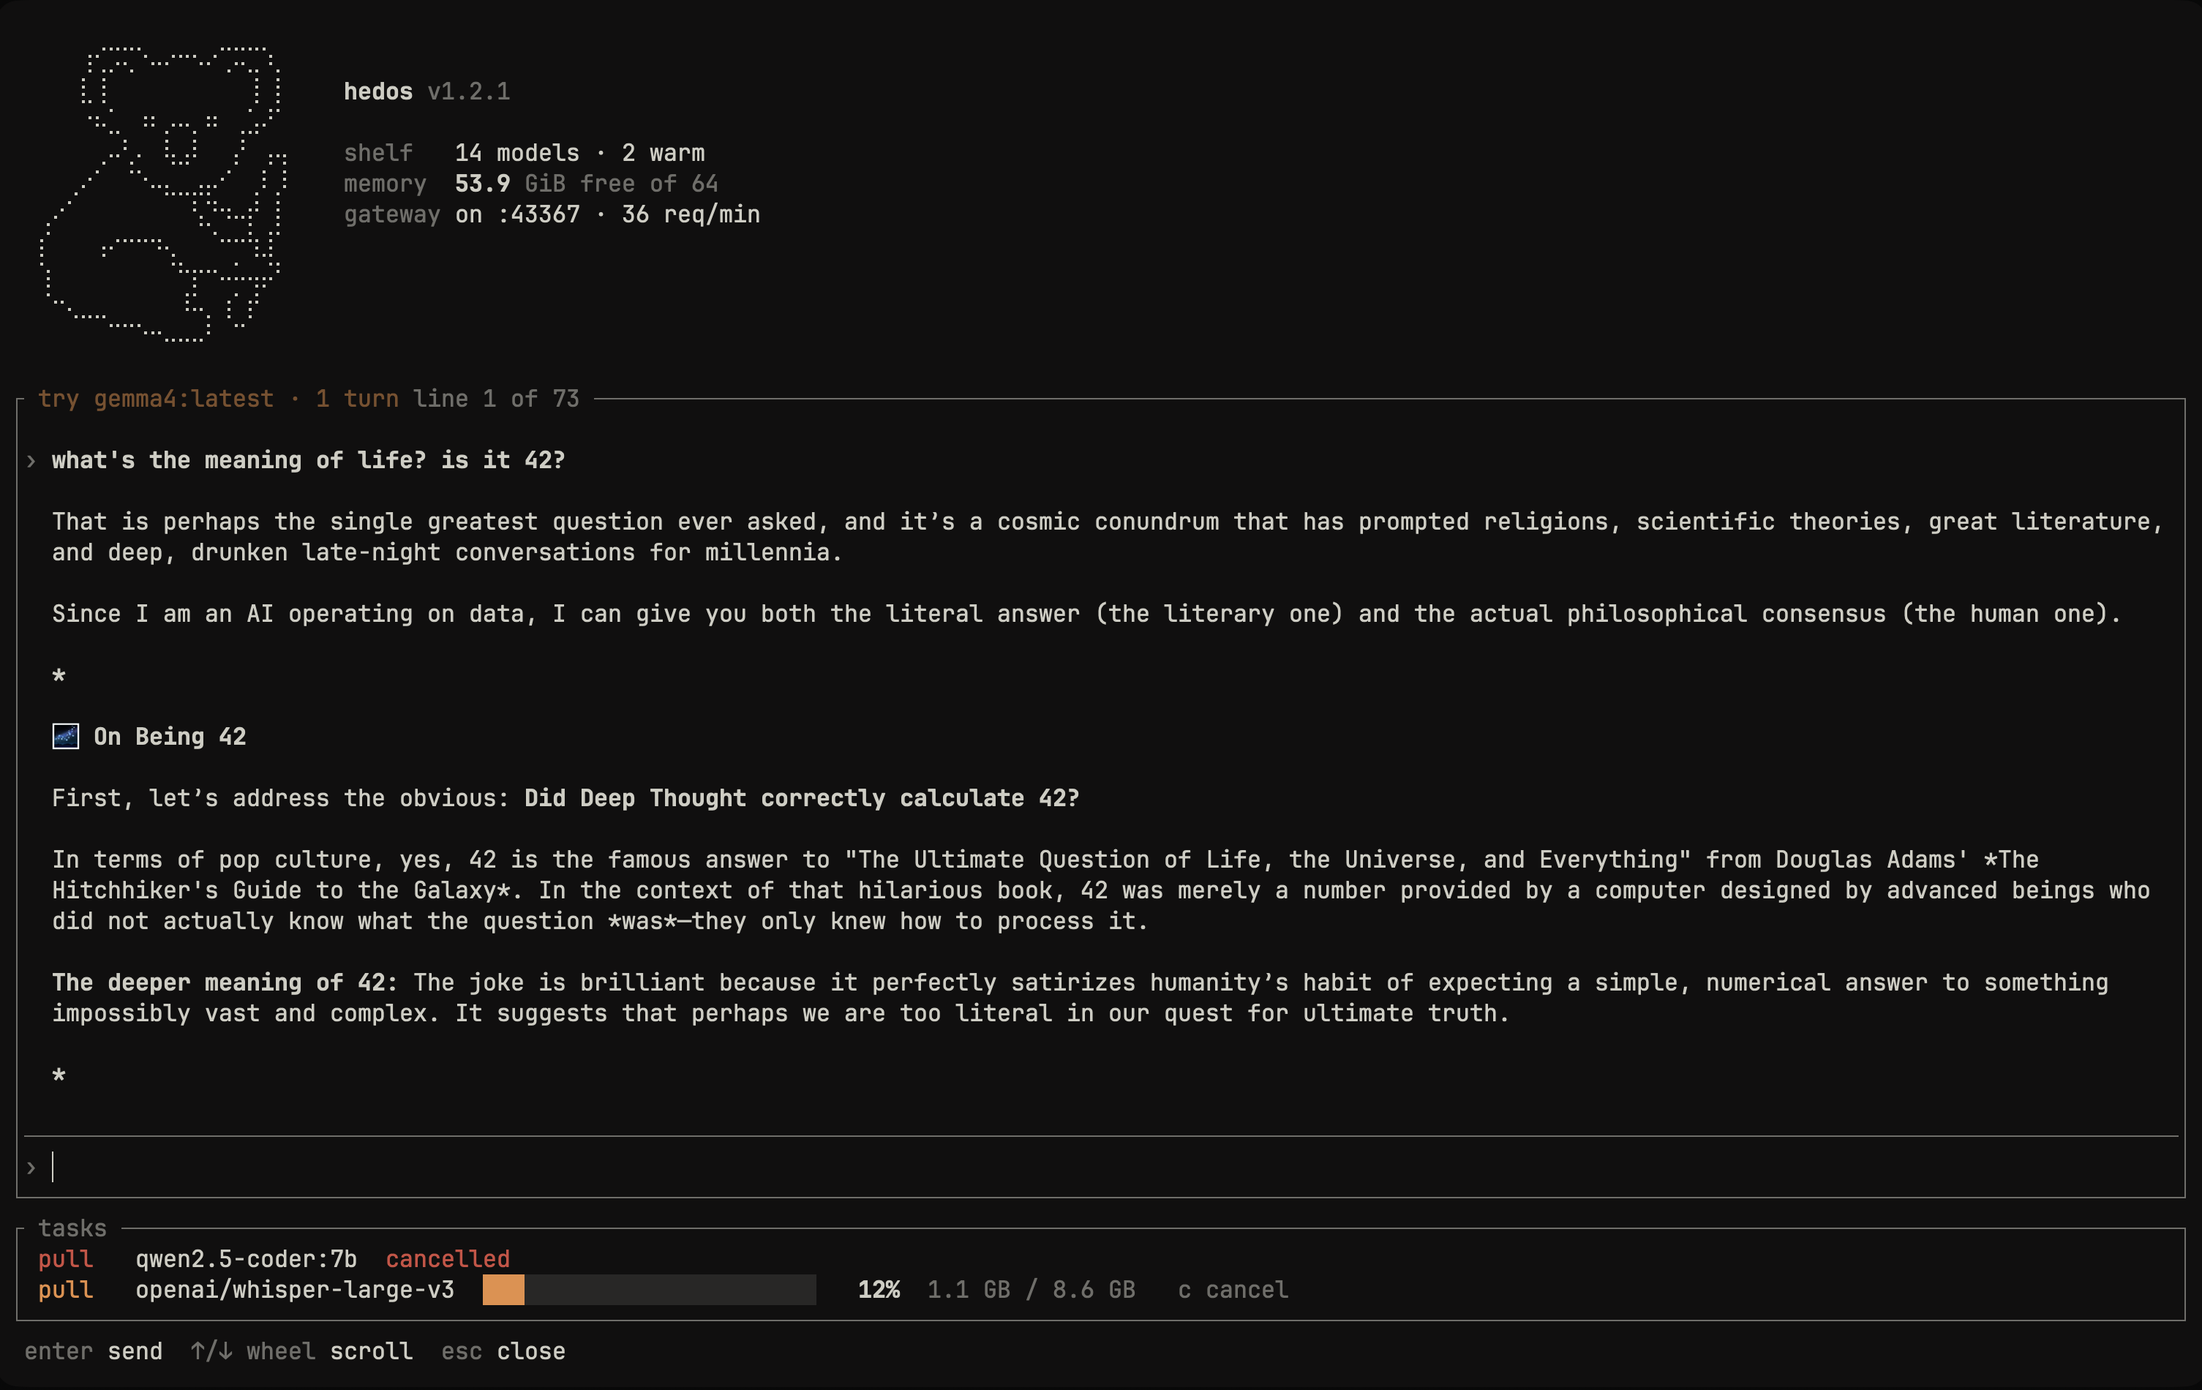
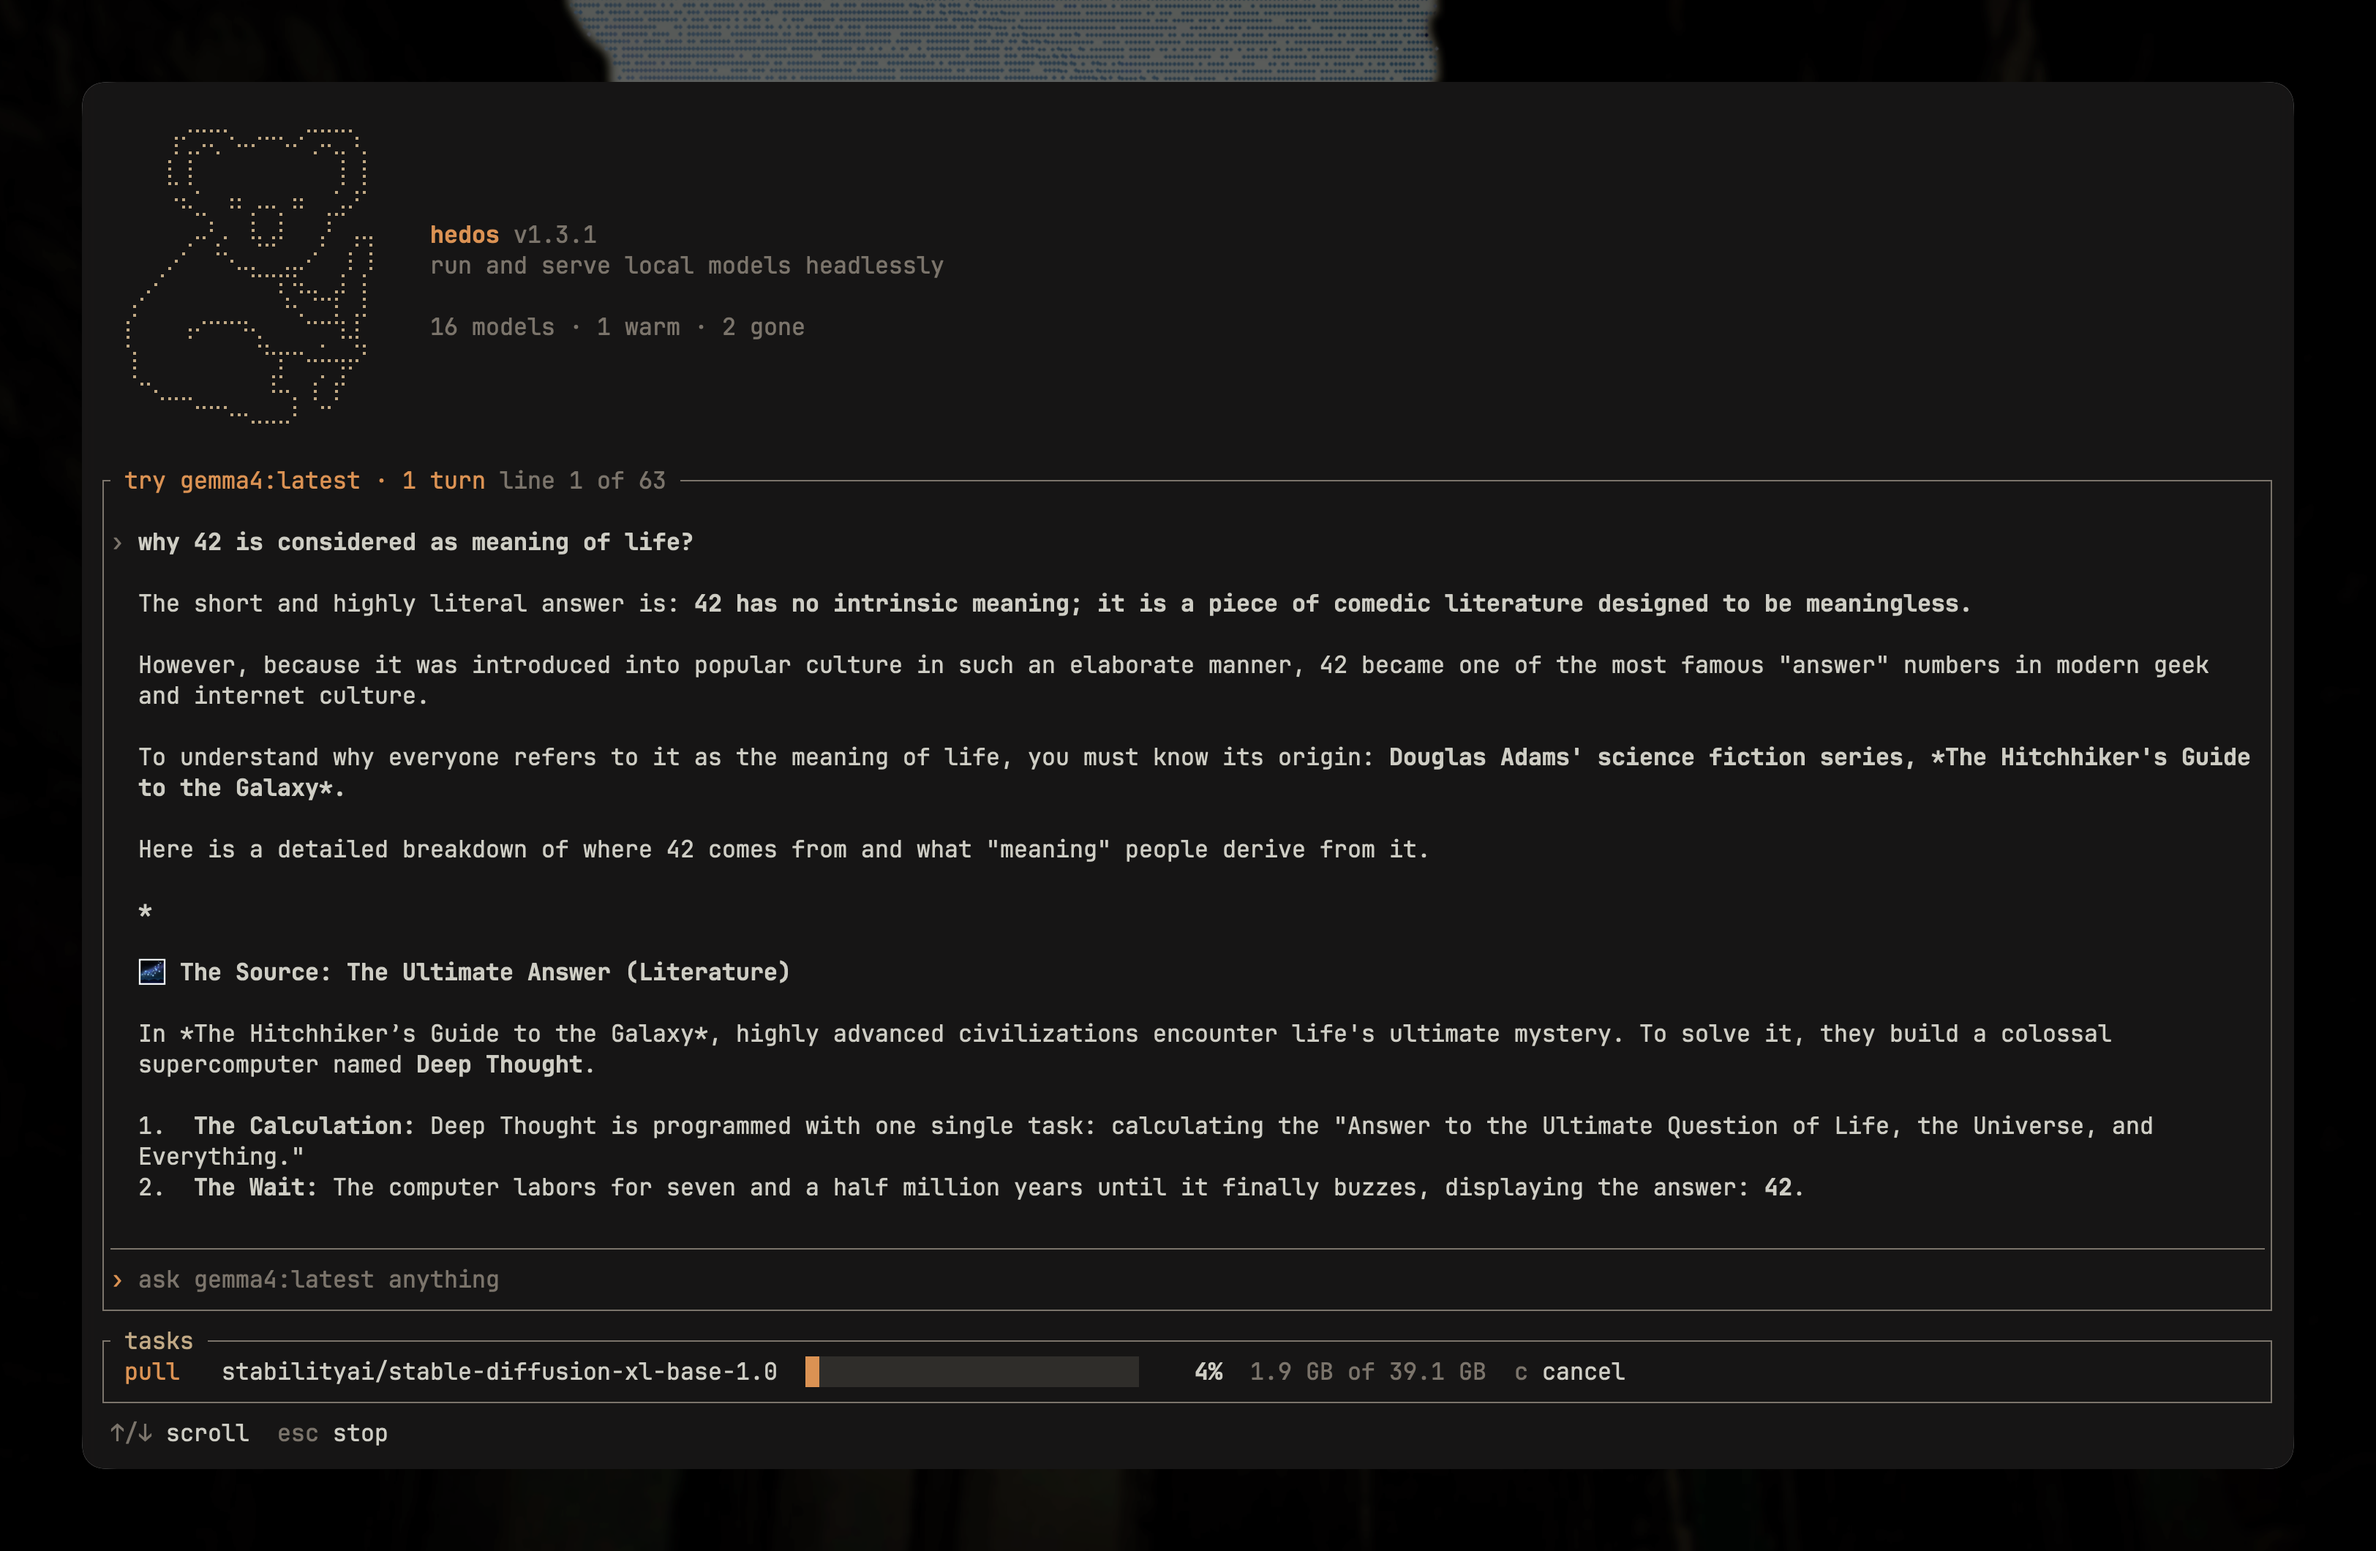
docs: refresh the shelf screenshots and add the pull card

diff --git a/README.md b/README.md
@@ -77,7 +77,9 @@ Press `t` and the shelf gives way to a conversation with the selected model. The
 
 ![The chat pane inside hedos shelf: the prompt in bold, the reply streaming in with its markdown, a download running in the task strip underneath](assets/ui-chat.png)
 
-Pulls download in the task strip while you keep working, with `c` to cancel. Every text field edits like a shell line (Ctrl-A/E, Ctrl-U, Ctrl-W, the arrows). It works over ssh and inside tmux. See the [`hedos shelf` reference](docs/cli.md#hedos-shelf).
+![The pull card inside hedos shelf: recommended models grouped by what they do, each with its size and a line on what it is for, over the darkened shelf](assets/ui-pull.png)
+
+`p` opens the pull card: a search over Ollama and Hugging Face, with recommendations grouped by what they do. Pulls download in the task strip while you keep working, with `c` to cancel. Every text field edits like a shell line (Ctrl-A/E, Ctrl-U, Ctrl-W, the arrows). It works over ssh and inside tmux. See the [`hedos shelf` reference](docs/cli.md#hedos-shelf).
 
 ## Coding harnesses
 `hedos launch` runs a coding harness against a local model with nothing to configure. The gateway starts inside the same process on a free port, the harness is wired to it, and both stop together:
